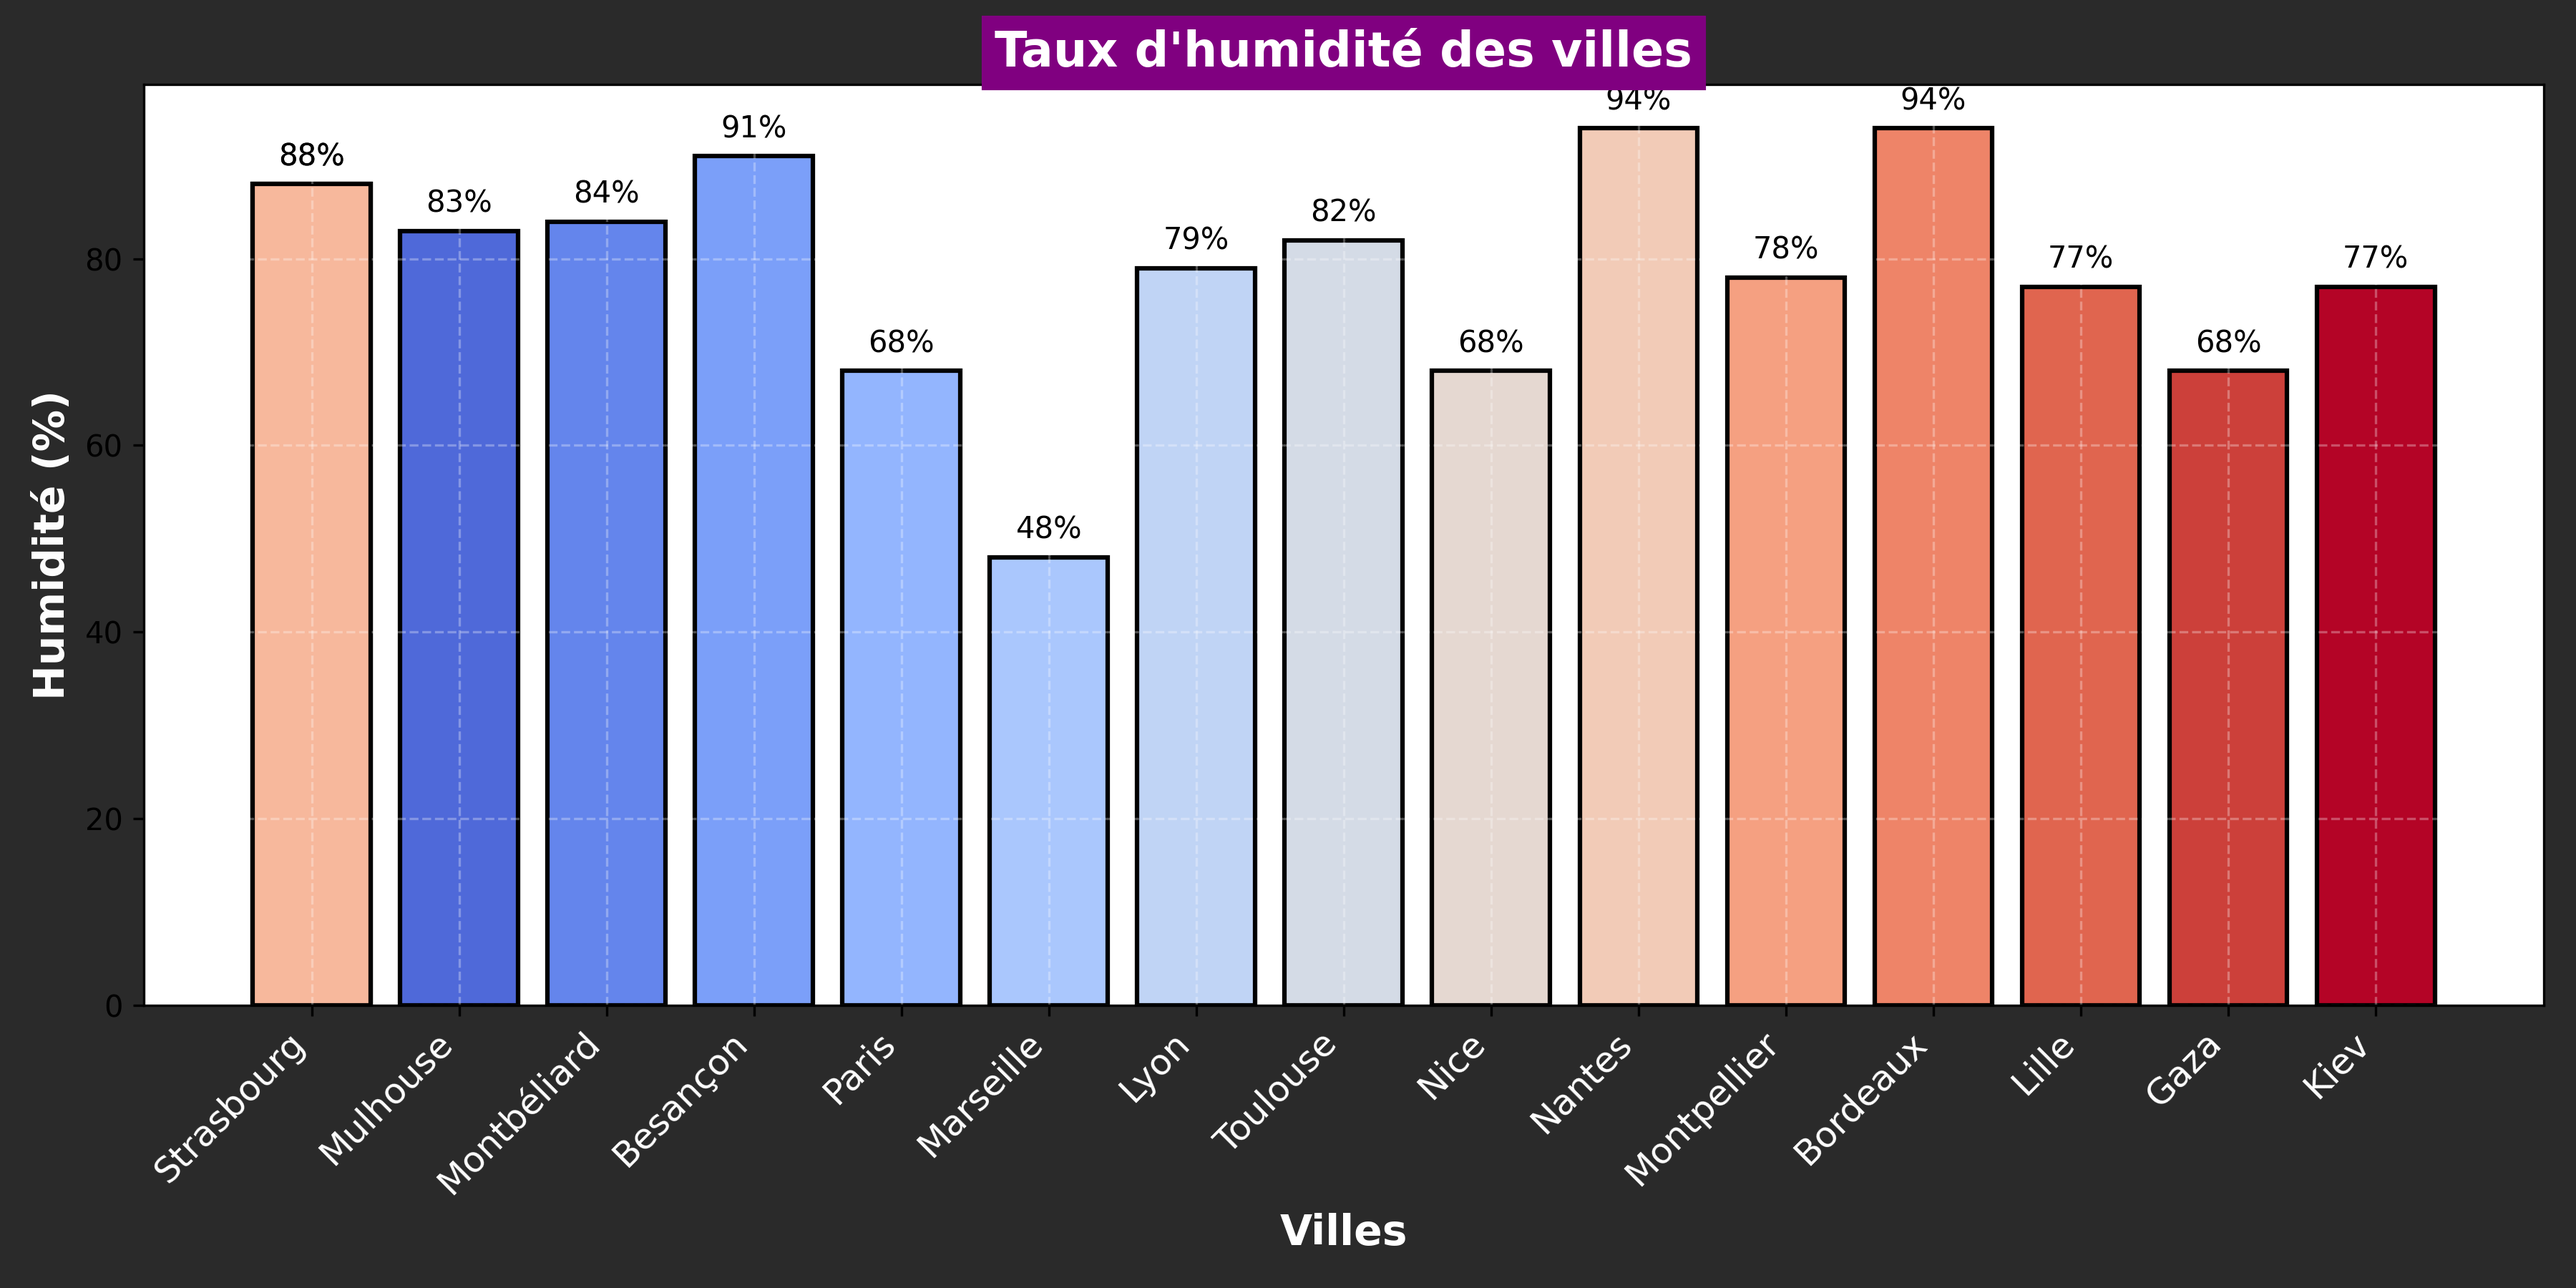
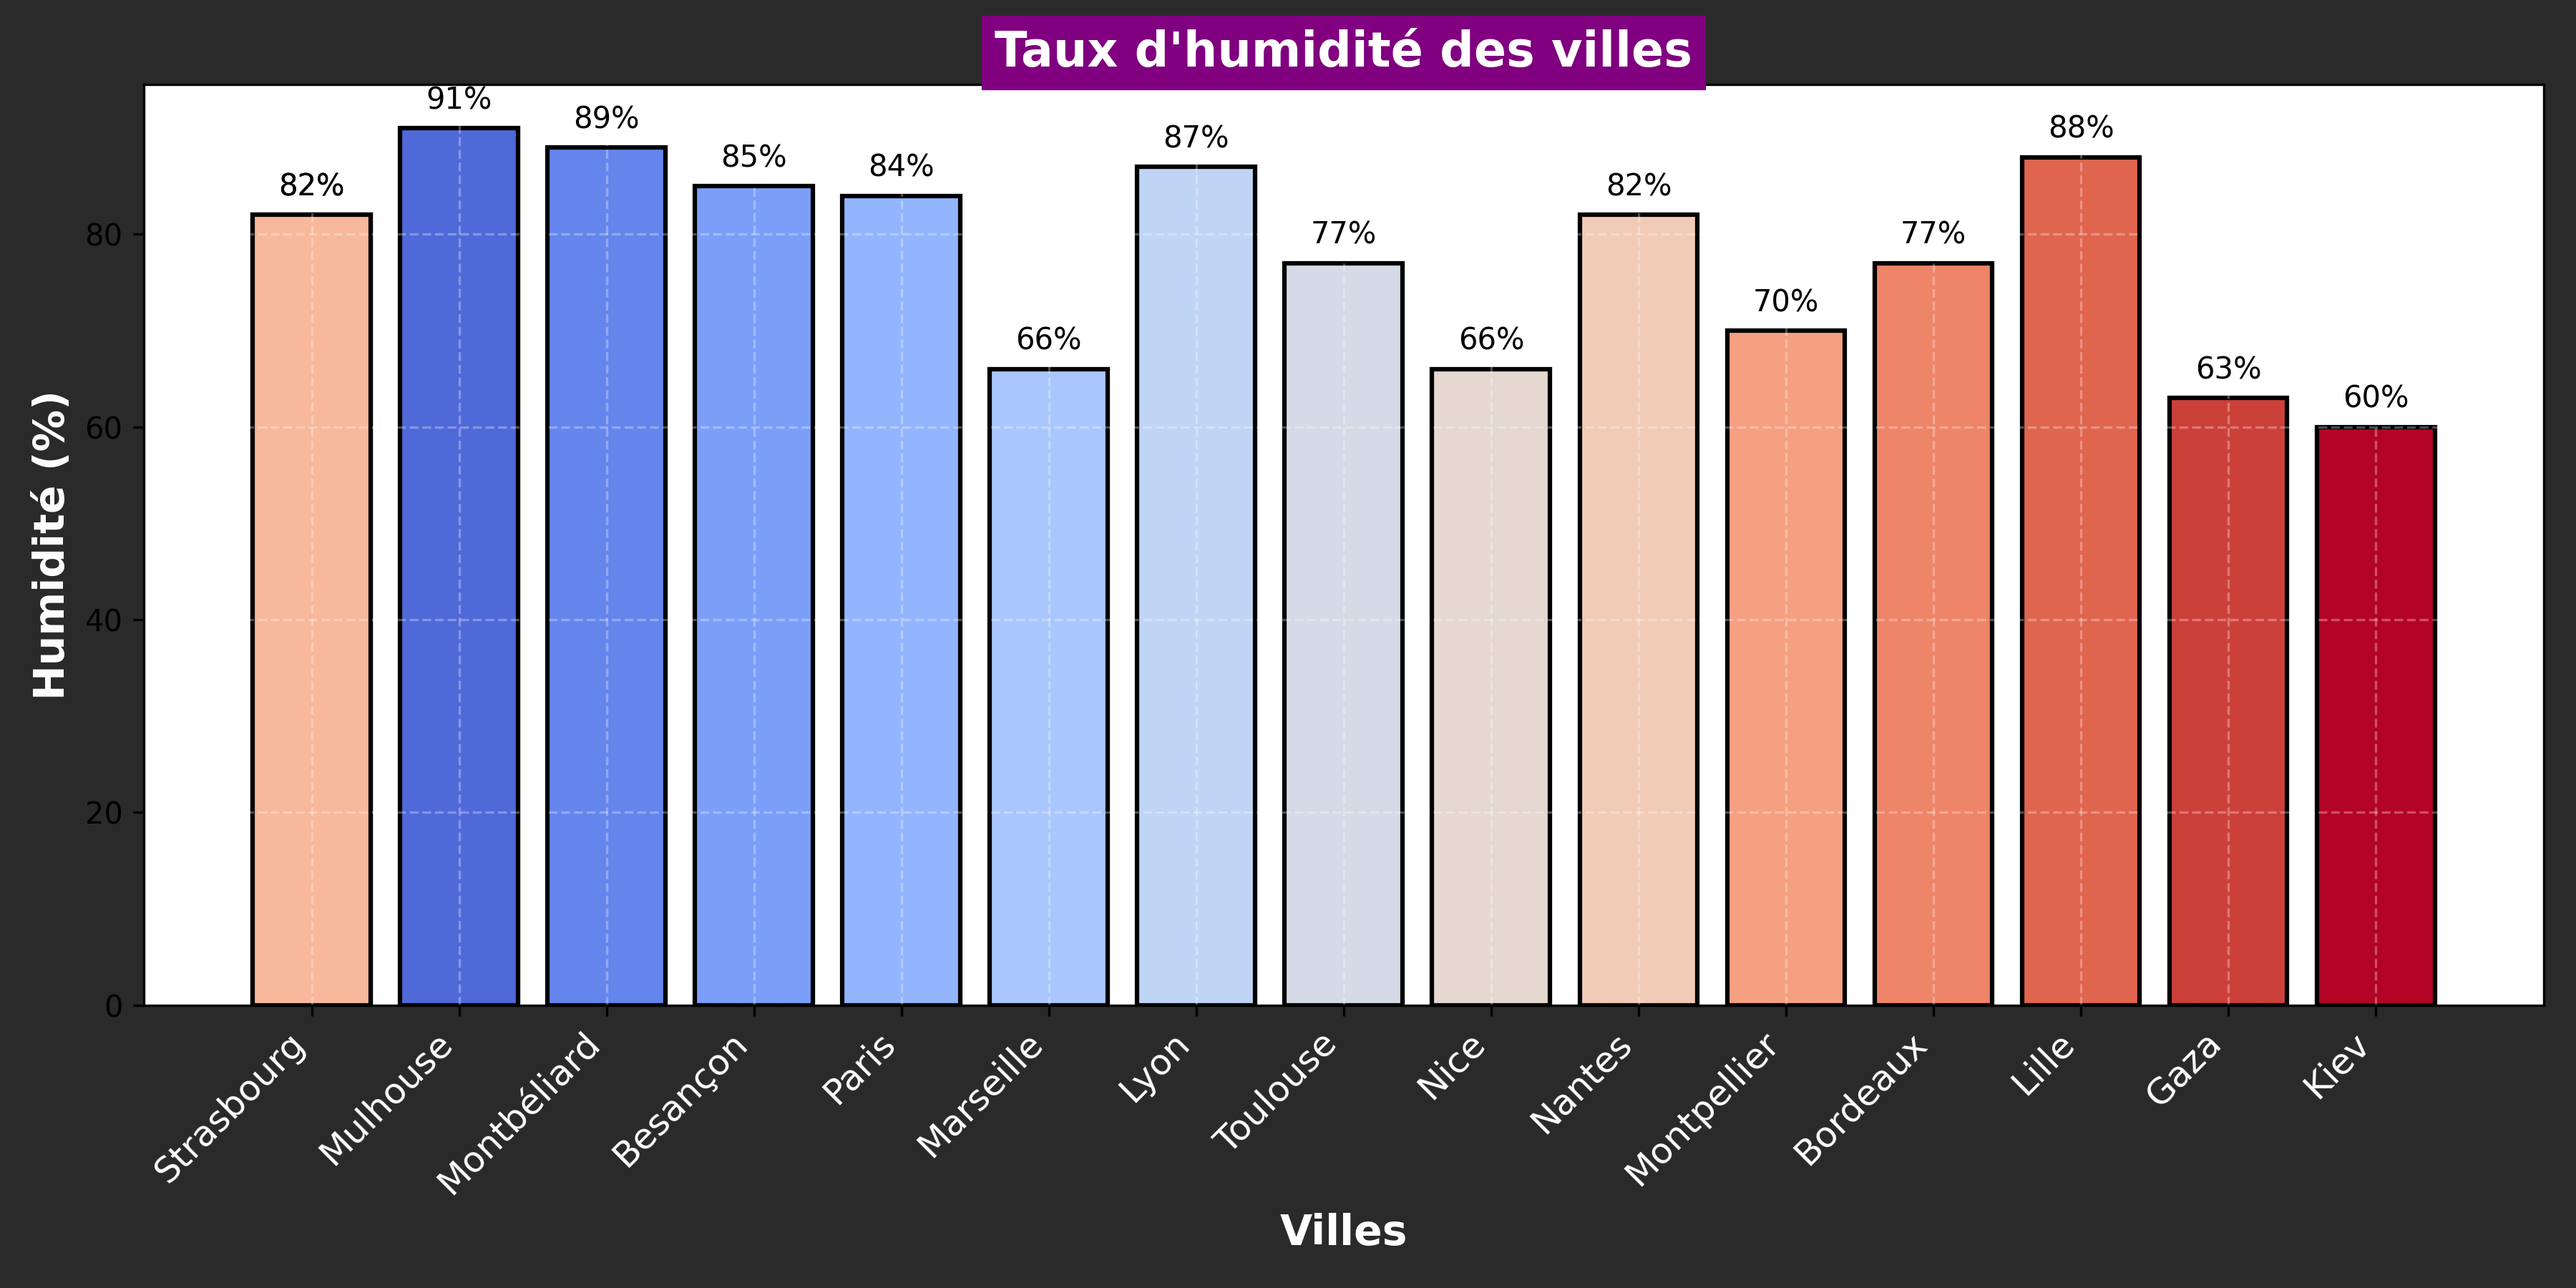
Mise à jour de la météo et ajout du graphique d'humidité

diff --git a/README.md b/README.md
@@ -24,103 +24,103 @@ Ce repo contient plusieurs workflows GitHub Actions :
 ## Météo actuelle :
 ## Météo des grandes villes + Gaza et Kiev 🌍
 
-🕒 Mise à jour : 15/06/2025 08:16:52
+🕒 Mise à jour : 16/06/2025 08:19:49
 
 ### 🌍 Strasbourg 🌥
-**Conditions :** couvert
-**Température :** 21.07°C
-**Humidité :** 88%
-**Vent :** 3.6 m/s
-
-### 🌍 Mulhouse 🌧
-**Conditions :** pluie modérée
-**Température :** 21.35°C
-**Humidité :** 83%
+**Conditions :** peu nuageux
+**Température :** 17.96°C
+**Humidité :** 82%
 **Vent :** 1.03 m/s
 
-### 🌍 Montbéliard 🌧
-**Conditions :** légère pluie
-**Température :** 21.1°C
-**Humidité :** 84%
+### 🌍 Mulhouse 🌥
+**Conditions :** nuageux
+**Température :** 15.97°C
+**Humidité :** 91%
 **Vent :** 3.09 m/s
+
+### 🌍 Montbéliard 🌥
+**Conditions :** couvert
+**Température :** 15.54°C
+**Humidité :** 89%
+**Vent :** 0.67 m/s
 
 ### 🌍 Besançon 🌥
-**Conditions :** forte pluie
-**Température :** 17.96°C
-**Humidité :** 91%
-**Vent :** 0.31 m/s
-
-### 🌍 Paris 🌥
 **Conditions :** nuageux
-**Température :** 17.55°C
-**Humidité :** 68%
-**Vent :** 3.09 m/s
+**Température :** 15.18°C
+**Humidité :** 85%
+**Vent :** 1.5 m/s
 
-### 🌍 Marseille 🌥
-**Conditions :** peu nuageux
-**Température :** 20.93°C
-**Humidité :** 48%
-**Vent :** 1.31 m/s
+### 🌍 Paris ☀
+**Conditions :** ciel dégagé
+**Température :** 14.78°C
+**Humidité :** 84%
+**Vent :** 2.57 m/s
+
+### 🌍 Marseille ☀
+**Conditions :** ciel dégagé
+**Température :** 20.06°C
+**Humidité :** 66%
+**Vent :** 0.89 m/s
 
 ### 🌍 Lyon 🌥
-**Conditions :** couvert
-**Température :** 19.21°C
-**Humidité :** 79%
-**Vent :** 1.09 m/s
-
-### 🌍 Toulouse 🌥
 **Conditions :** nuageux
-**Température :** 17.99°C
-**Humidité :** 82%
-**Vent :** 3.09 m/s
+**Température :** 13.59°C
+**Humidité :** 87%
+**Vent :** 0.45 m/s
 
-### 🌍 Nice 🌥
-**Conditions :** partiellement nuageux
-**Température :** 21.39°C
-**Humidité :** 68%
-**Vent :** 1.21 m/s
+### 🌍 Toulouse ☀
+**Conditions :** ciel dégagé
+**Température :** 17.99°C
+**Humidité :** 77%
+**Vent :** 2.57 m/s
+
+### 🌍 Nice ☀
+**Conditions :** ciel dégagé
+**Température :** 18.05°C
+**Humidité :** 66%
+**Vent :** 1.27 m/s
 
 ### 🌍 Nantes ☀
 **Conditions :** ciel dégagé
-**Température :** 13.96°C
-**Humidité :** 94%
-**Vent :** 1.54 m/s
+**Température :** 14.96°C
+**Humidité :** 82%
+**Vent :** 2.57 m/s
 
 ### 🌍 Strasbourg 🌥
-**Conditions :** couvert
-**Température :** 21.07°C
-**Humidité :** 88%
-**Vent :** 3.6 m/s
-
-### 🌍 Montpellier 🌧
-**Conditions :** légère pluie
-**Température :** 20.71°C
-**Humidité :** 78%
-**Vent :** 2.06 m/s
-
-### 🌍 Bordeaux 🌧
-**Conditions :** légère pluie
-**Température :** 15.15°C
-**Humidité :** 94%
+**Conditions :** peu nuageux
+**Température :** 17.96°C
+**Humidité :** 82%
 **Vent :** 1.03 m/s
+
+### 🌍 Montpellier ☀
+**Conditions :** ciel dégagé
+**Température :** 21.94°C
+**Humidité :** 70%
+**Vent :** 4.12 m/s
+
+### 🌍 Bordeaux ☀
+**Conditions :** ciel dégagé
+**Température :** 17.15°C
+**Humidité :** 77%
+**Vent :** 1.54 m/s
 
 ### 🌍 Lille ☀
 **Conditions :** ciel dégagé
-**Température :** 16.09°C
-**Humidité :** 77%
-**Vent :** 3.09 m/s
+**Température :** 15.13°C
+**Humidité :** 88%
+**Vent :** 2.06 m/s
 
-### 🌍 Gaza ☀
+### 🌍 Gaza 🌥
+**Conditions :** partiellement nuageux
+**Température :** 26.23°C
+**Humidité :** 63%
+**Vent :** 3.9 m/s
+
+### 🌍 Kiev ☀
 **Conditions :** ciel dégagé
-**Température :** 26.29°C
-**Humidité :** 68%
-**Vent :** 3.91 m/s
-
-### 🌍 Kiev 🌥
-**Conditions :** couvert
-**Température :** 16.31°C
-**Humidité :** 77%
-**Vent :** 4.64 m/s
+**Température :** 20.34°C
+**Humidité :** 60%
+**Vent :** 4.8 m/s
 
 <p align='center'><img src='https://raw.githubusercontent.com/khoa083/khoa/main/Khoa_ne/img/Rainbow.gif' width='100%' style='border-radius: 5px; border: 3px solid #39FF14; box-shadow: 0 0 10px #39FF14, 0 0 20px #39FF14;' /></p>
 
